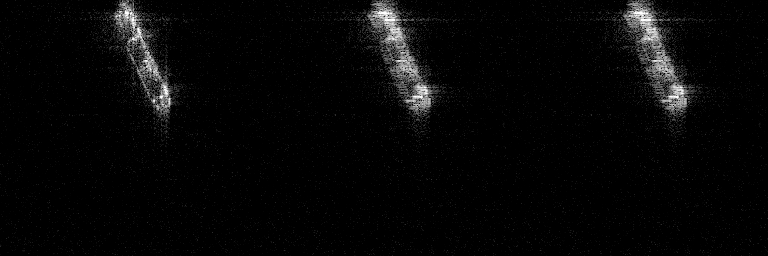
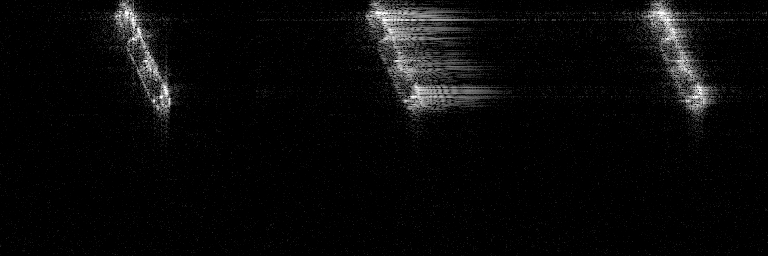
I think PGA is finally working

Changed region(s): [[0.4375, 0.0, 1.0, 0.5312]]

diff --git a/scripts/test.py b/scripts/test.py
@@ -105,7 +105,7 @@ def pga_range_focus(img, win="auto", win_params=[100, 0.5], shadow_pga=False):
         windowed_image[window] = shifted_image[window]  # (window_length, npulses)
 
         # Fourier Transform along azimuth axis
-        breakpoint()
+
         # Might need to change this name convention if it's not signals
         windowed_signals = ift(windowed_image, ax=0)
 
@@ -160,7 +160,7 @@ def pga_range_focus(img, win="auto", win_params=[100, 0.5], shadow_pga=False):
     return (img_af, np.flip(af_ph), rms)
 
 
-def pga_az_focus(img, win="auto", win_params=[100, 0.5], shadow_pga=False):
+def pga_az_focus(img, max_iters=30, win="auto", win_params=[100, 0.5], shadow_pga=False,remap=None):
     """TODO
 
     page 269 in Carrara
@@ -178,7 +178,7 @@ def pga_az_focus(img, win="auto", win_params=[100, 0.5], shadow_pga=False):
 
     # Initialize loop variables
     img_af = 1.0 * img
-    max_iter = 1000
+    max_iter = max_iters
     af_ph = 0
     rms = []
 
@@ -186,9 +186,9 @@ def pga_az_focus(img, win="auto", win_params=[100, 0.5], shadow_pga=False):
     for iteration in range(max_iter):
         # Find brightest azimuth sample in each range bin; [0] = darkest [-1] = brightest
         if shadow_pga:
-            index = np.argsort(np.abs(img_af), axis=1)[0]
+            index = np.argsort(np.abs(img_af), axis=1)[:, 0]
         else:
-            index = np.argsort(np.abs(img_af), axis=1)[-1]
+            index = np.argsort(np.abs(img_af), axis=1)[:, -1]
 
         # Circularly shift image so max values line up along azimuth center
         shifted_image = np.zeros(img.shape) + 0j
@@ -196,7 +196,7 @@ def pga_az_focus(img, win="auto", win_params=[100, 0.5], shadow_pga=False):
             shifted_image[sample, :] = np.roll(
                 img_af[sample, :], int(npulses / 2 - index[sample])
             )
-
+        
         # Create a 1D window centered around the azimuth center; this window limits the azimuth only, not the range bins
         if win == "auto":
             # Compute window width by summing along range direction
@@ -234,7 +234,7 @@ def pga_az_focus(img, win="auto", win_params=[100, 0.5], shadow_pga=False):
 
         # Fourier Transform along azimuth axis
         # breakpoint()
-        windowed_image_ift = ift(windowed_image, ax=0)
+        windowed_image_ift = ft(windowed_image, ax=1)
 
         ### TODO: start here and finish, understanding algorithm; figure out why they use the ift and not ft; also look through autofocus demo in ritsar
 
@@ -259,8 +259,9 @@ def pga_az_focus(img, win="auto", win_params=[100, 0.5], shadow_pga=False):
         # TODO: Understand what this does and why its needed
         phi = np.unwrap(phi)
 
-        # Remove linear trend; I think this straightens out a signal
-        ## START HERE
+        # Remove linear trend
+        # From the paper "Phase Gradient Autofocus - A Robust Tool for HIgh Resolution SAR Phase Correction" - Jakowatz
+        # Removing any linear trend in the phase-error estimate prevents image shifting 
         t = np.arange(0, nsamples)  # nsamples = range
         slope, intercept, r_value, p_value, std_err = scipy.stats.linregress(t, phi)
         line = slope * t + intercept
@@ -277,14 +278,14 @@ def pga_az_focus(img, win="auto", win_params=[100, 0.5], shadow_pga=False):
         phi2 = np.tile(np.array([phi]), (nsamples, 1))
 
         # Still don't understand why the ift is used
-        IMG_af = ift(img_af, ax=1)
+        IMG_af = ft(img_af, ax=1)
 
         # Apply correction, element-wise
         IMG_af = IMG_af * np.exp(-1j * phi2)
 
-        # Return paritally correct phase error back to range compressed phase history data
+        # Return paritally correct phase error back to complex image domain
         # for the next iteration of PGA
-        img_af = ft(IMG_af, ax=1)
+        img_af = ift(IMG_af, ax=1)
 
         # Store phase
         af_ph += phi
@@ -292,7 +293,7 @@ def pga_az_focus(img, win="auto", win_params=[100, 0.5], shadow_pga=False):
     print("number of iterations: {}".format(iteration + 1))
 
     # Compress azimuth after PGA
-    img_af = ift(img_af, ax=1)
+    #img_af = ift(img_af, ax=1)
 
     return (img_af, np.flip(af_ph), rms)
 
@@ -316,7 +317,7 @@ if __name__ == "__main__":
     orig_chip_path = "/home/bselee/programming/sar-toolkit/output/sicd_chips/CAPELLA_C02_SM_SICD_HH_20210215180158_20210215180202/CAPELLA_C02_SM_SICD_HH_20210215180158_20210215180202_5.npy"
     chip_path = "/home/bselee/programming/sar-toolkit/output/defocused_chips_from_chips/CAPELLA_C02_SM_SICD_HH_20210215180158_20210215180202/defocused_CAPELLA_C02_SM_SICD_HH_20210215180158_20210215180202_5.npy"
     orig_complex_pixels = np.load(orig_chip_path)
-    complex_pixels = np.load(chip_path)
+    defocus_complex_pixels = np.load(chip_path)
 
     visualizer = Visualizer()
 
@@ -325,17 +326,22 @@ if __name__ == "__main__":
     with open(metadata_name) as json_file:
         sicd_metadata = json.load(json_file)
     remapper = Density(data_mean=sicd_metadata["data_mean"])
-    rg_comp_ph_hist = ft(complex_pixels, ax=1)
-    focused_imaged, _, _ = pga_az_focus(rg_comp_ph_hist)
+    #rg_comp_ph_hist = ft(complex_pixels, ax=1)
+    #focused_imaged, _, _ = pga_az_focus(rg_comp_ph_hist, remap=remapper)
+    focused_imaged, _, _ = pga_az_focus(defocus_complex_pixels, max_iters=10, remap=remapper)
     save_name_png = "pga_focused_image.png"
-    breakpoint()
-    print(np.allclose(focused_imaged, complex_pixels))
+    
+    ### START HERE, investigate why both of these are true
+    temp_1 = Density(data_mean=sicd_metadata["data_mean"])(defocus_complex_pixels)
+    temp_2 = Density(data_mean=sicd_metadata["data_mean"])(focused_imaged)
+    print(np.allclose(temp_1, temp_2))
+
     visualizer.plot_sicd(
         complex_pixels=focused_imaged, remapper=remapper, save_path=str(save_name_png)
     )
     visualizer.plot_autofocus_chips(
         orig_chip=orig_complex_pixels,
-        defocus_chip=complex_pixels,
+        defocus_chip=defocus_complex_pixels,
         focus_chip=focused_imaged,
         remapper=remapper,
         save_path="3_imgs.png",

diff --git a/scripts/defocus_chips.py b/scripts/defocus_chips.py
@@ -64,7 +64,7 @@ def main(base_config_path: str):
 
         sicd_pixels = np.load(chip_path)
 
-        defocused_image, coeffs = azimuth_defocus(
+        defocused_image, coeffs, poly_order, coe_multiplier = azimuth_defocus(
             sicd_pixels,
             ph_err_order=base_config["defocus"]["phase_err_order"],
             coeff_multiplier=base_config["defocus"]["coeff_multiplier"],
@@ -79,7 +79,12 @@ def main(base_config_path: str):
             complex_pixels=defocused_image, remapper=remapper, save_path=save_name_png
         )
 
-        metadata = {"chip_name": chip_name, "phase_error_coeffs": list(coeffs)}
+        metadata = {
+            "chip_name": chip_name,
+            "phase_error_coeffs": list(coeffs),
+            "poly_order": poly_order,
+            "coeffs_multiplier": coe_multiplier,
+        }
         defocus_metadata.append(metadata)
 
         if index % 50 == 0:

diff --git a/stk/autofocus/defocus.py b/stk/autofocus/defocus.py
@@ -1,7 +1,7 @@
 import glob
 import time
 from pathlib import Path
-from typing import Optional
+from typing import Optional, Tuple
 
 import matplotlib.pyplot as plt
 import numpy as np
@@ -24,7 +24,7 @@ def azimuth_defocus(
     ph_err_order: int = 10,
     coeff_multiplier=64,
     rand_seed: Optional[int] = None,
-):
+) -> Tuple[np.ndarray, np.ndarray, int, float]:
     """Defocus a complex_image by an nth order polynomial phase error in the azimuth direction.
     This implementation is largely based on:
 
@@ -62,11 +62,12 @@ def azimuth_defocus(
     y = poly(x)
 
     # Create a line from the data using  least-squares regression to remove the linear trend;
-    # I'm not sure why we need to remove the linear trend
     slope, intercept, r_value, p_value, std_err = linregress(x, y)
     line = slope * x + np.mean(
         y
     )  # np.mean(y) is the same as intercept in this case; this is only true when the data is mean-centered i.e. subtracting the y mean from y and x mean from x
+    
+    
     y = y - line
 
     # Repeat the azimuth phase error across the range bins;
@@ -83,4 +84,4 @@ def azimuth_defocus(
     # I cannot understand why this is but both methods return similar images.
     defocused_img = ift(ft(complex_pixels, ax=1) * np.exp(1j * ph_err), ax=1)
 
-    return defocused_img, coeffs
+    return defocused_img, coeffs, poly.order, coeff_multiplier

diff --git a/stk/visualize/visualizer.py b/stk/visualize/visualizer.py
@@ -28,9 +28,9 @@ class Visualizer:
     ):
         fig, axs = plt.subplots(3, 1)
         all_chips_array = np.hstack((orig_chip, defocus_chip, focus_chip))
-        
+
         remapped_img = remapper(all_chips_array)
-        
+
         pil_img = Image.fromarray(remapped_img)
         pil_img.save(save_path)
         # all_chips = [orig_chip, defocus_chip, focus_chip]